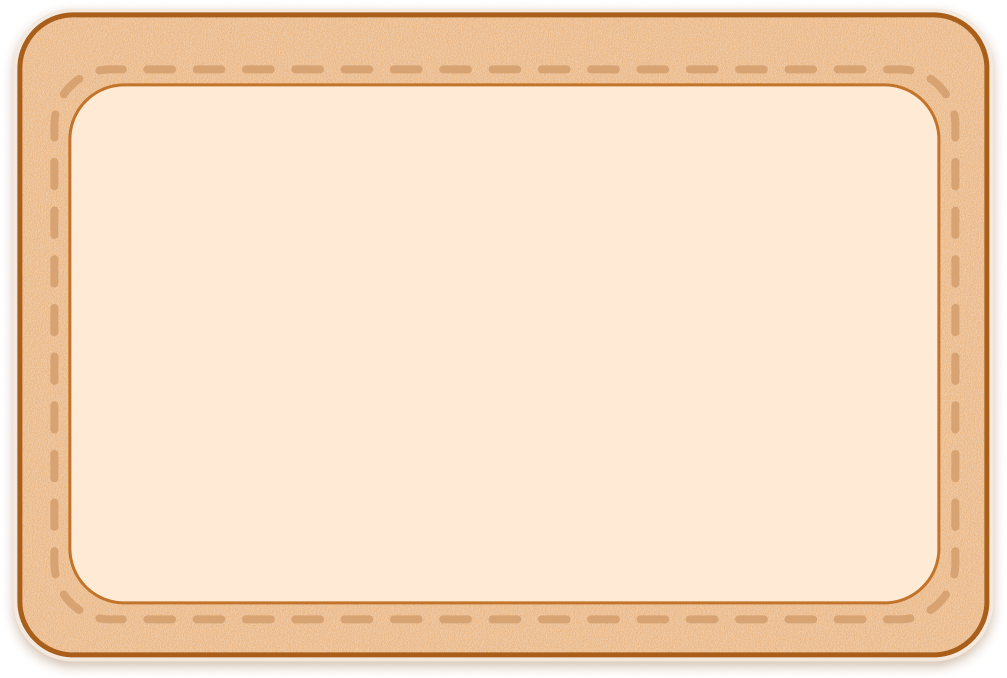
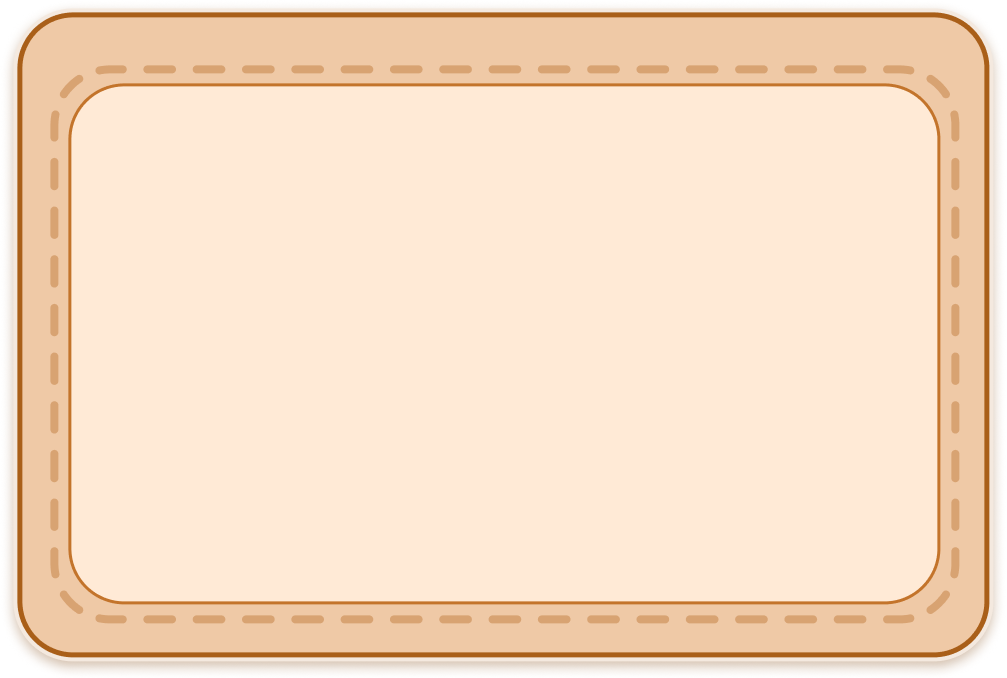
Added coffee-finder ui

Changed region(s): [[0.0308, 0.031, 0.9851, 0.8363], [0.0308, 0.7743, 0.9851, 0.9602]]

diff --git a/static/style.css b/static/style.css
@@ -600,7 +600,8 @@ body {
 }
 
 .coffee-mode .logo-sign {
-  top: -30px;
+  top: -20px;
+  left: 15%;
   width: 260px;
   max-width: 80%;
 }
@@ -636,6 +637,7 @@ body {
   border: 4px solid #f4e9df;
   background: transparent;
   border-radius: 60px;
+  transition: opacity 250ms cubic-bezier(0.4, 0, 0.2, 1);
 }
 
 .main-interface .card-outer {
@@ -643,6 +645,7 @@ body {
   height: 582px;
   left: 0;
   top: 0;
+  transition: opacity 250ms cubic-bezier(0.4, 0, 0.2, 1);
 }
 
 .main-interface .card-shadow {
@@ -654,6 +657,15 @@ body {
 .main-interface .card-border {
   background-color: #efc9a6;
   border: 5px solid #a95f19;
+  transition: opacity 250ms cubic-bezier(0.4, 0, 0.2, 1);
+}
+
+/* Hide quiz outer border in coffee finder mode */
+.coffee-mode .main-interface .card-outline,
+.coffee-mode .main-interface .card-outer,
+.coffee-mode .main-interface .card-border {
+  opacity: 0;
+  pointer-events: none;
 }
 
 .main-interface .card-dashed {
@@ -665,6 +677,14 @@ body {
   border-radius: 56px;
   background: transparent;
   overflow: hidden;
+  opacity: 1;
+  transition: opacity 250ms cubic-bezier(0.4, 0, 0.2, 1);
+}
+
+/* Hide dashed quiz frame in coffee finder mode (fade out) */
+.coffee-mode .main-interface .card-dashed {
+  opacity: 0;
+  pointer-events: none;
 }
 
 .main-interface .card-dashed img {
@@ -687,6 +707,13 @@ body {
   padding: 1.5rem;
   overflow: auto;
   position: relative;
+}
+
+/* Enlarged card size specifically for coffee finder mode */
+.main-interface .card-inner.card-inner--coffee {
+  width: 913px;
+  height: 670px;
+  top: 1px;
 }
 
 /* Inner card background images (quiz + coffee-finder) */
@@ -951,7 +978,10 @@ body {
 /* Coffee finder UI (map + list) */
 
 .coffee-finder-ui {
-  margin-top: 1.5rem;
+  margin-top: 100px;
+  display: flex;
+  flex-direction: column;
+  height: 100%;
 }
 
 .coffee-finder-controls {
@@ -974,11 +1004,23 @@ body {
   display: grid;
   grid-template-columns: 2fr 3fr;
   gap: 1rem;
-  height: 260px;
+  flex: 1;
+  min-height: 320px;
 }
 
 .coffee-finder-map {
   border-radius: 1rem;
+  overflow: hidden;
+}
+
+/* Hide bottom progress bar while in coffee finder mode */
+.coffee-mode .progress-bar-outer {
+  display: none;
+}
+
+/* In coffee finder mode, avoid scrolling the whole card; internal
+   sections (like results) can manage their own scroll if needed. */
+.coffee-mode .main-interface .card-inner {
   overflow: hidden;
 }
 

diff --git a/index.html b/index.html
@@ -23,14 +23,14 @@
         <div class="card card-outline"></div>
         <div class="card card-outer"></div>
         <div class="card card-outer card-border"></div>
-        <div class="card card-dashed"><img src="assets.card-dashed.png" alt=""></div>
+        <div class="card card-dashed"><img src="assets/card-dashed.png" alt=""></div>
         <div class="card card-inner">
             <img src="assets/card_bg.png" alt="" class="card-inner-bg card-inner-bg-quiz">
             <img src="assets/main_interface_coffeeshop.png" alt="" class="card-inner-bg card-inner-bg-coffee">
             <div class="app-container">
 
                 <div id="coffee-finder-ui" class="coffee-finder-ui" style="display: none;">
-                    <h2 class="question-title">Find a Coffee Shop</h2>
+                    <h3 class="question-title">Find a Coffee Shop</h3>
 
                     <div class="coffee-finder-controls">
                         <input
